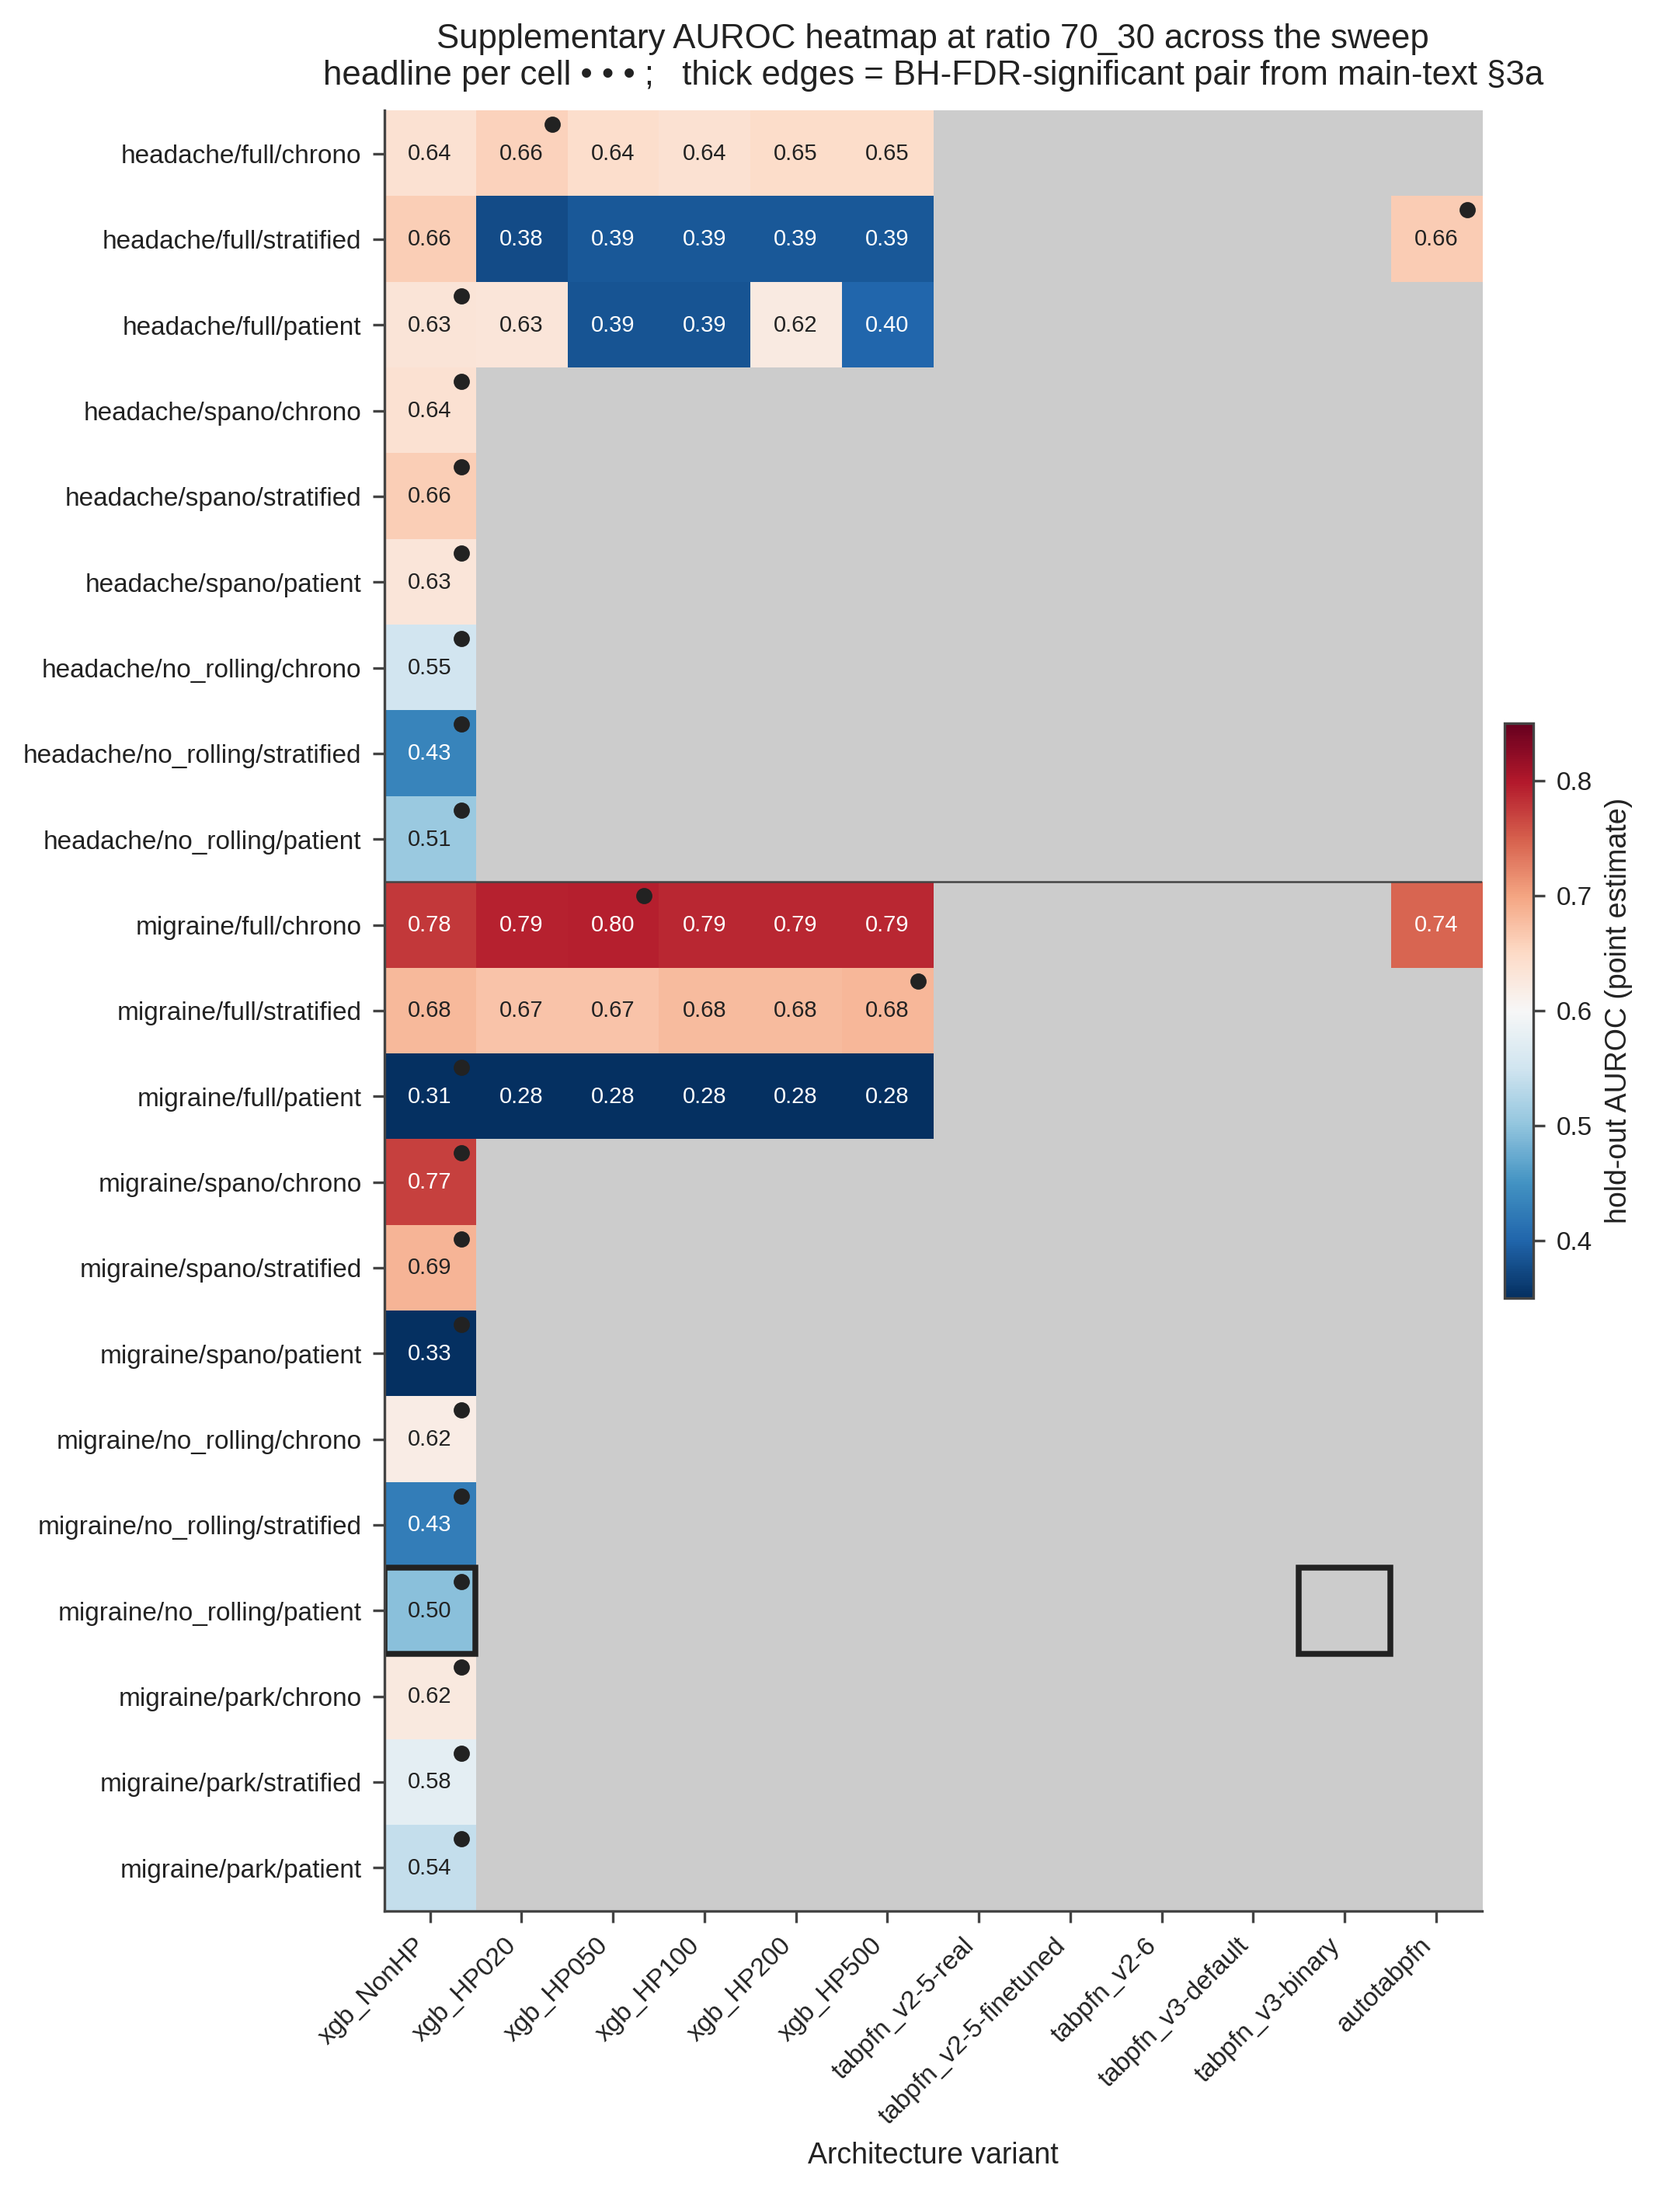
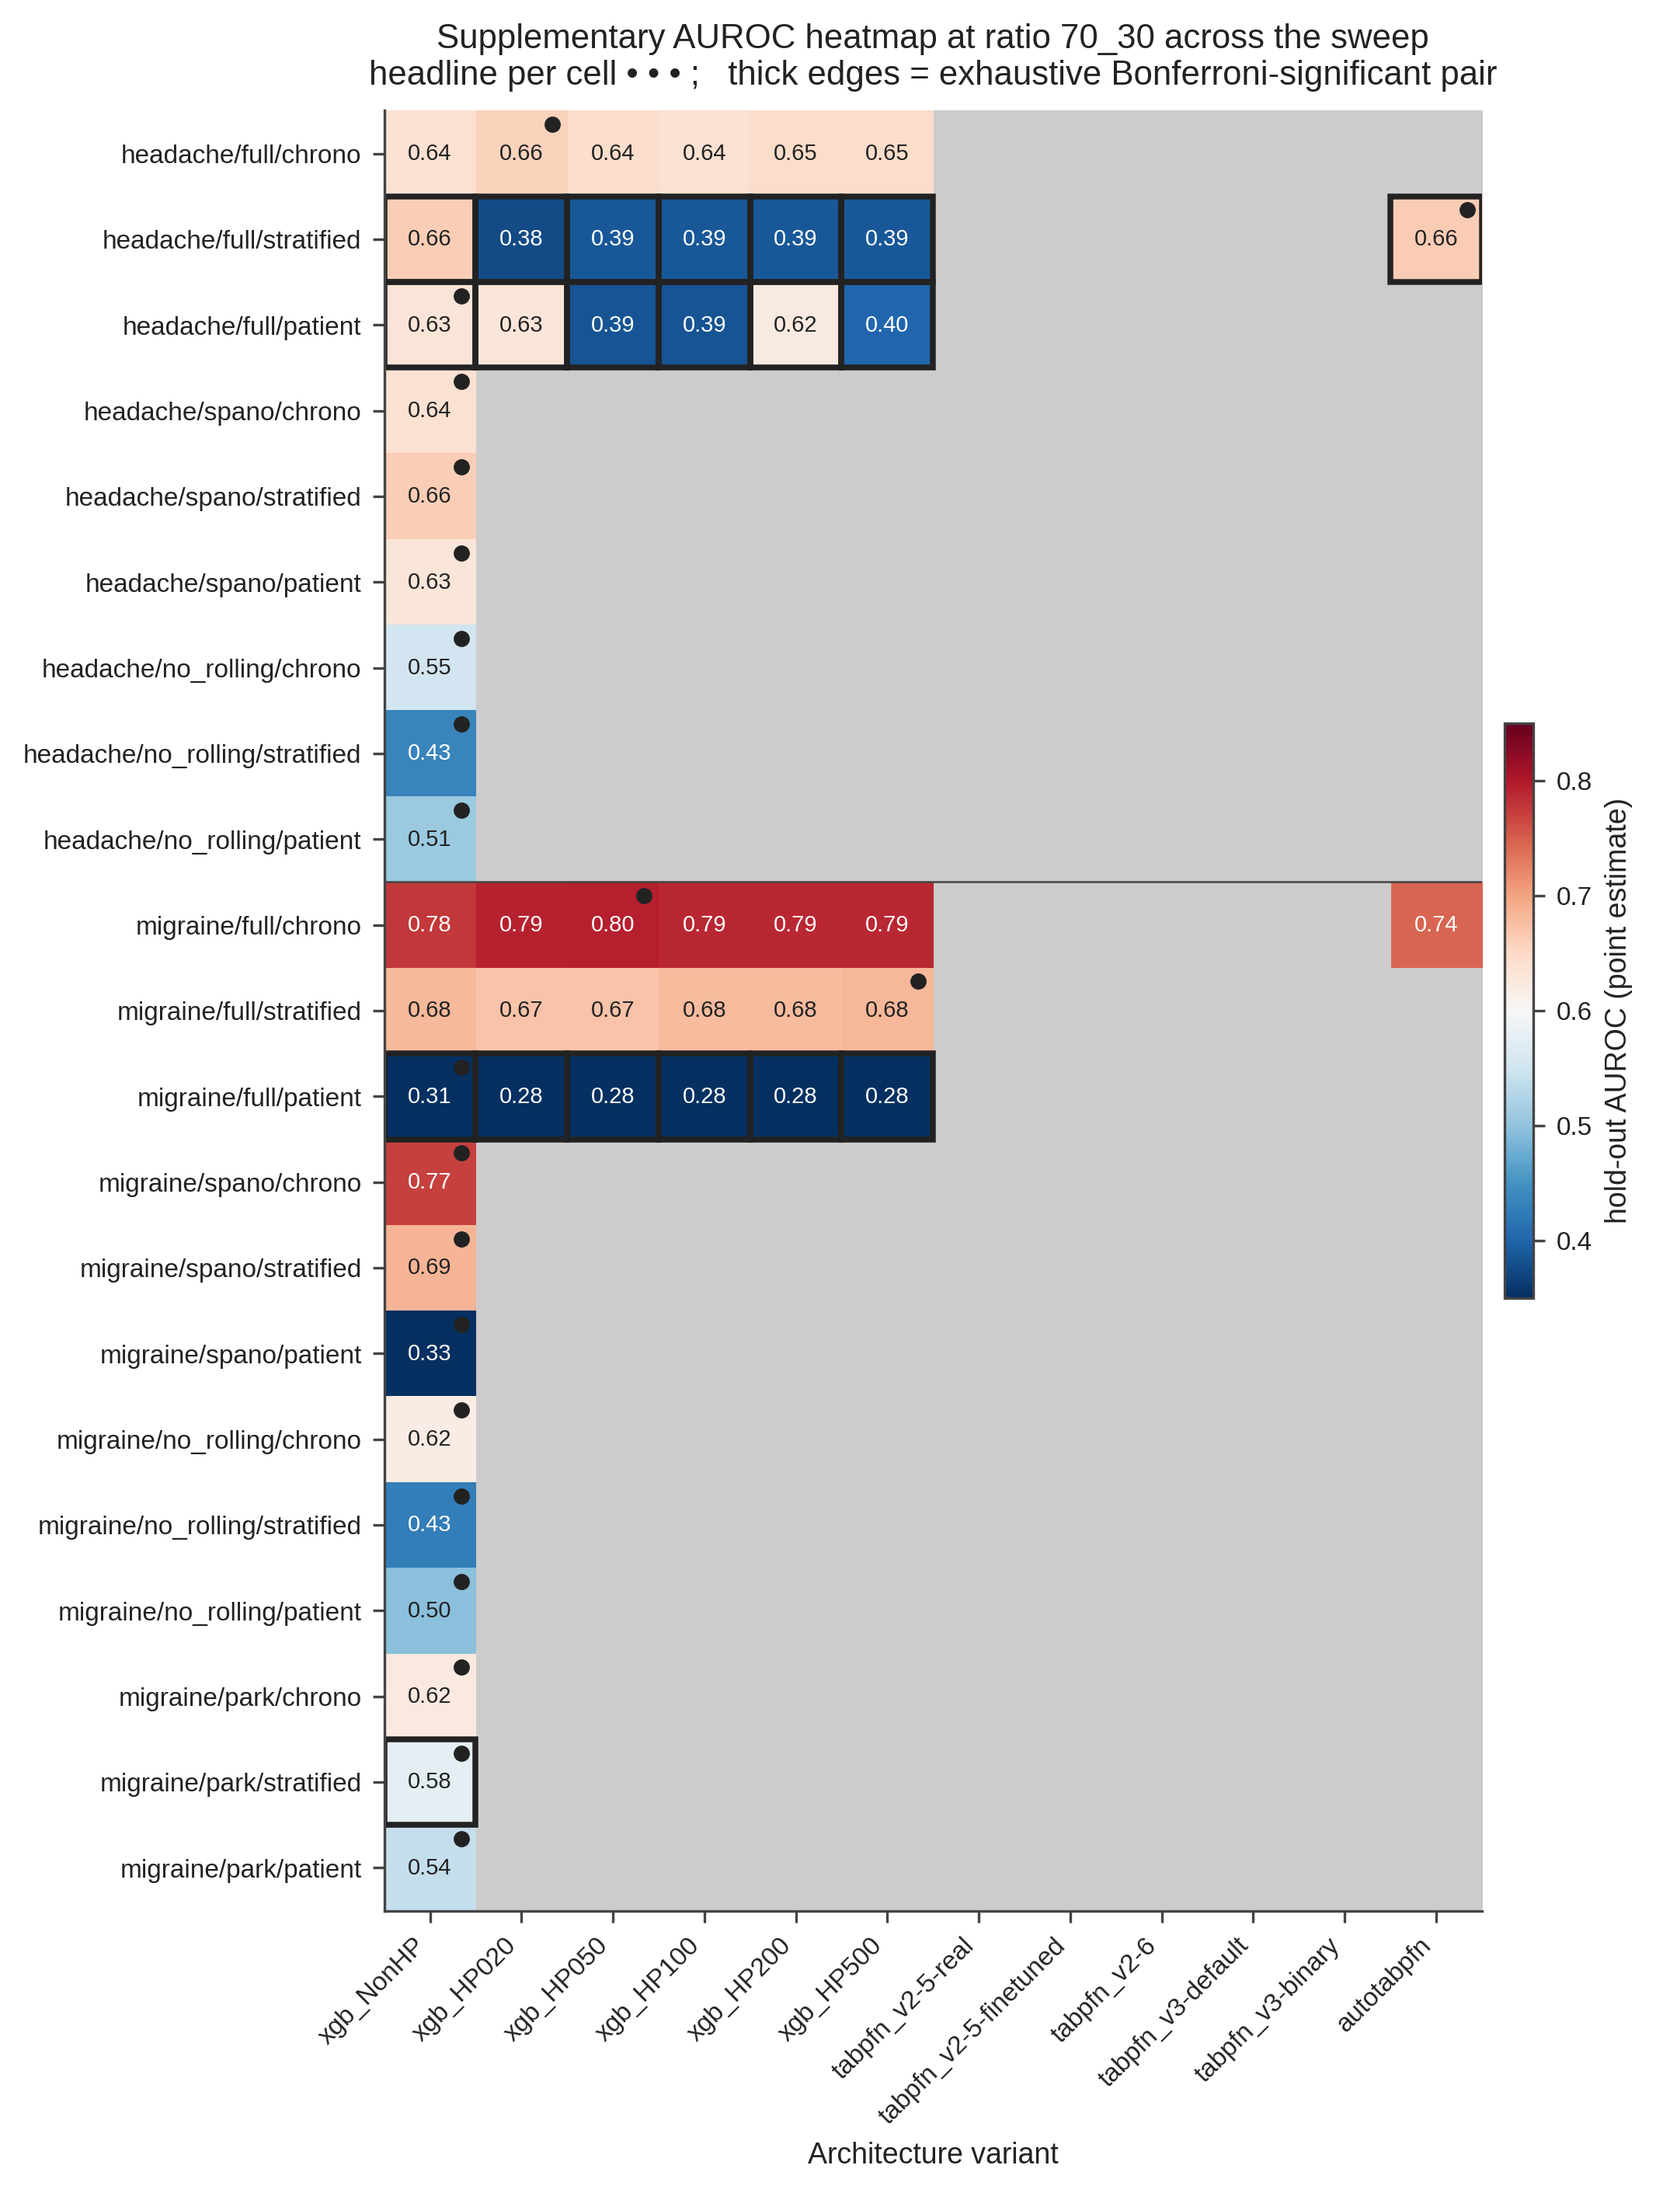
updated fig_g7 to prefer the exhaustive Bonferroni JSON for the significance overlay and fall back to the 18-test BH-FDR family only when exhaustive is absent

diff --git a/docs/methodAndResults_diagramCreatorScripts/fig_g7_significance_heatmap.py b/docs/methodAndResults_diagramCreatorScripts/fig_g7_significance_heatmap.py
@@ -108,8 +108,17 @@ def _csv_lookup(rows, target, feature_set, split, arch):
 
 
 def _latest_delong_json():
-    candidates = sorted((_REPO / "experiment" / "_eval").glob("paired_delong_*.json"))
-    return candidates[-1] if candidates else None
+    """Prefer the exhaustive-grid JSON (Bonferroni FWER over the all-pairs
+    family at ratio=70_30) when present; fall back to the 18-test
+    paired_delong family if not. The exhaustive run carries
+    architecture-vs-headline significance per cell, which is the natural
+    overlay for the AUROC heatmap."""
+    eval_dir = _REPO / "experiment" / "_eval"
+    exhaustive = sorted(eval_dir.glob("exhaustive_delong_*.json"))
+    if exhaustive:
+        return exhaustive[-1], "exhaustive"
+    paired = sorted(eval_dir.glob("paired_delong_*.json"))
+    return (paired[-1], "paired") if paired else (None, None)
 
 
 def main():
@@ -134,28 +143,49 @@ def main():
         if np.isfinite(row).any():
             headlines[i] = int(np.nanargmax(row))
 
-    # Overlay BH-FDR-significant architectures from the 18-test family.
+    # Overlay significant pairs from either the exhaustive Bonferroni
+    # family (preferred) or the targeted BH-FDR 18-test family (fallback).
     sig_cells = set()
-    delong_src = _latest_delong_json()
+    delong_src, delong_kind = _latest_delong_json()
     if delong_src is not None:
         delong = json.loads(delong_src.read_text())
-        for t in delong["tests"]:
-            if not t.get("sig_at_q05"):
-                continue
-            parts = t["cell"].split("/")
-            if len(parts) != 3:
-                continue
-            tgt, feat, sp = parts
-            feat_full = f"{feat}_features"
-            try:
-                row_idx = CELLS.index((tgt, feat_full, sp))
-            except ValueError:
-                continue
-            for arch_lbl in (t["arch_a"], t["arch_b"]):
-                norm = (arch_lbl.replace("stacked_2xgb_", "xgb_")
-                                .replace("autotabpfn_v2-5-auto", "autotabpfn"))
-                if norm in ARCHS:
-                    sig_cells.add((row_idx, ARCHS.index(norm)))
+        if delong_kind == "exhaustive":
+            # Mark every architecture that participates in any Bonferroni-
+            # significant pair within its cell.
+            for cell_dict in delong["cells"]:
+                parts = cell_dict["cell"].split("/")
+                if len(parts) != 3:
+                    continue
+                tgt, feat, sp = parts
+                feat_full = f"{feat}_features"
+                try:
+                    row_idx = CELLS.index((tgt, feat_full, sp))
+                except ValueError:
+                    continue
+                for pair in cell_dict["pairs"]:
+                    if not pair.get("sig_bonferroni"):
+                        continue
+                    for arch_lbl in (pair["arch_a"], pair["arch_b"]):
+                        if arch_lbl in ARCHS:
+                            sig_cells.add((row_idx, ARCHS.index(arch_lbl)))
+        else:  # paired (18-test family)
+            for t in delong["tests"]:
+                if not t.get("sig_at_q05"):
+                    continue
+                parts = t["cell"].split("/")
+                if len(parts) != 3:
+                    continue
+                tgt, feat, sp = parts
+                feat_full = f"{feat}_features"
+                try:
+                    row_idx = CELLS.index((tgt, feat_full, sp))
+                except ValueError:
+                    continue
+                for arch_lbl in (t["arch_a"], t["arch_b"]):
+                    norm = (arch_lbl.replace("stacked_2xgb_", "xgb_")
+                                    .replace("autotabpfn_v2-5-auto", "autotabpfn"))
+                    if norm in ARCHS:
+                        sig_cells.add((row_idx, ARCHS.index(norm)))
 
     fig, ax = plt.subplots(figsize=S.figsize(cols="double", h=9.5))
 
@@ -194,9 +224,11 @@ def main():
     ax.set_yticklabels([f"{t}/{fs.replace('_features','')}/{sp}"
                         for (t, fs, sp) in CELLS], fontsize=8)
     ax.set_xlabel("Architecture variant")
+    overlay_label = ("exhaustive Bonferroni" if delong_kind == "exhaustive"
+                     else "BH-FDR main-text §3a")
     ax.set_title(
         "Supplementary AUROC heatmap at ratio 70_30 across the sweep\n"
-        "headline per cell • • • ;   thick edges = BH-FDR-significant pair from main-text §3a"
+        f"headline per cell • • • ;   thick edges = {overlay_label}-significant pair"
     )
 
     # Side-row colourbar
